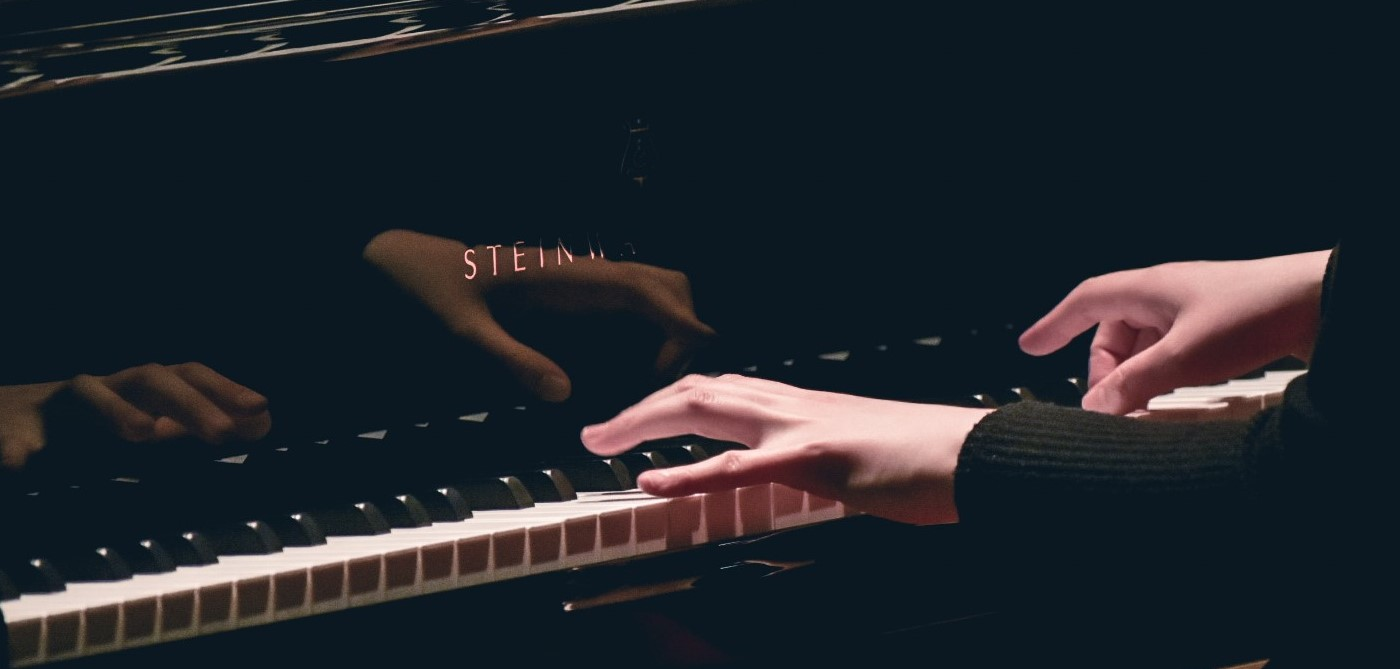
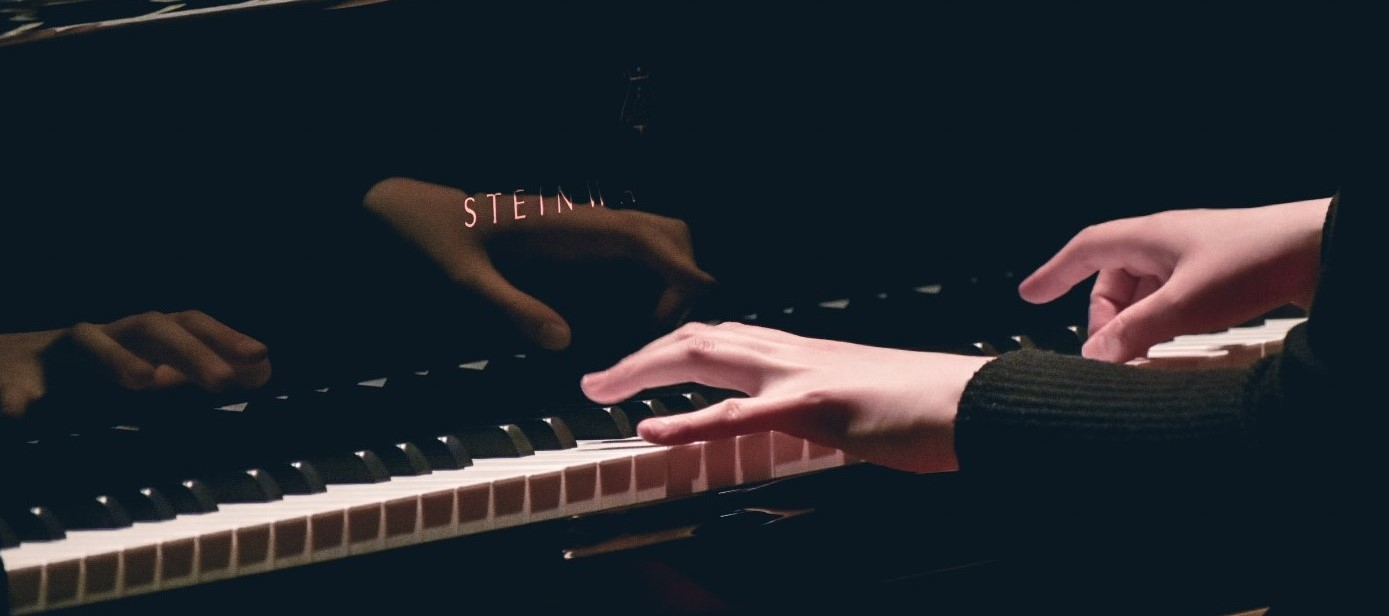
aspect

diff --git a/index.html b/index.html
@@ -53,7 +53,7 @@
     <div id="header"></div>
     <!-- 画面真ん中の情報 -->
     <main class="main">
-      <img src="image/2018Top.jpg" class="topImage">
+      <img src="image/2020Top.jpg" class="topImage">
 
 
       <div class="info">
